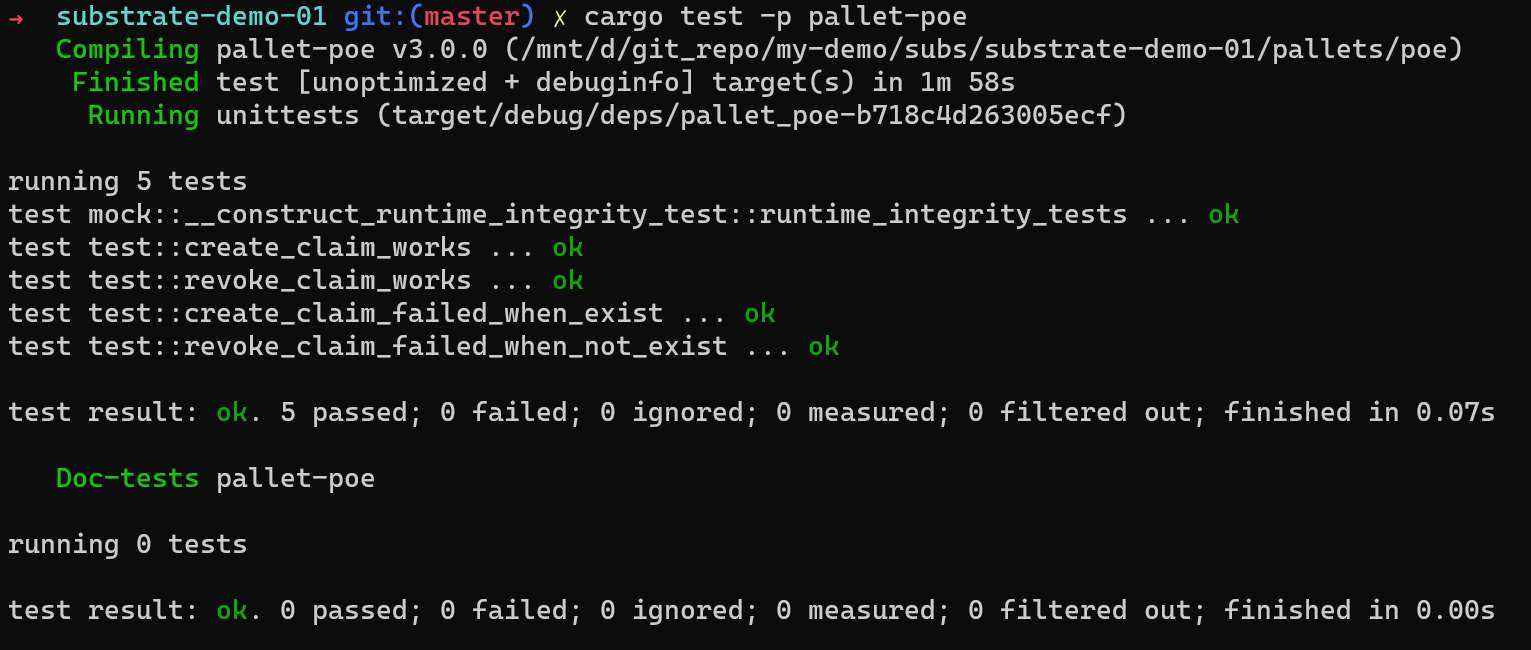
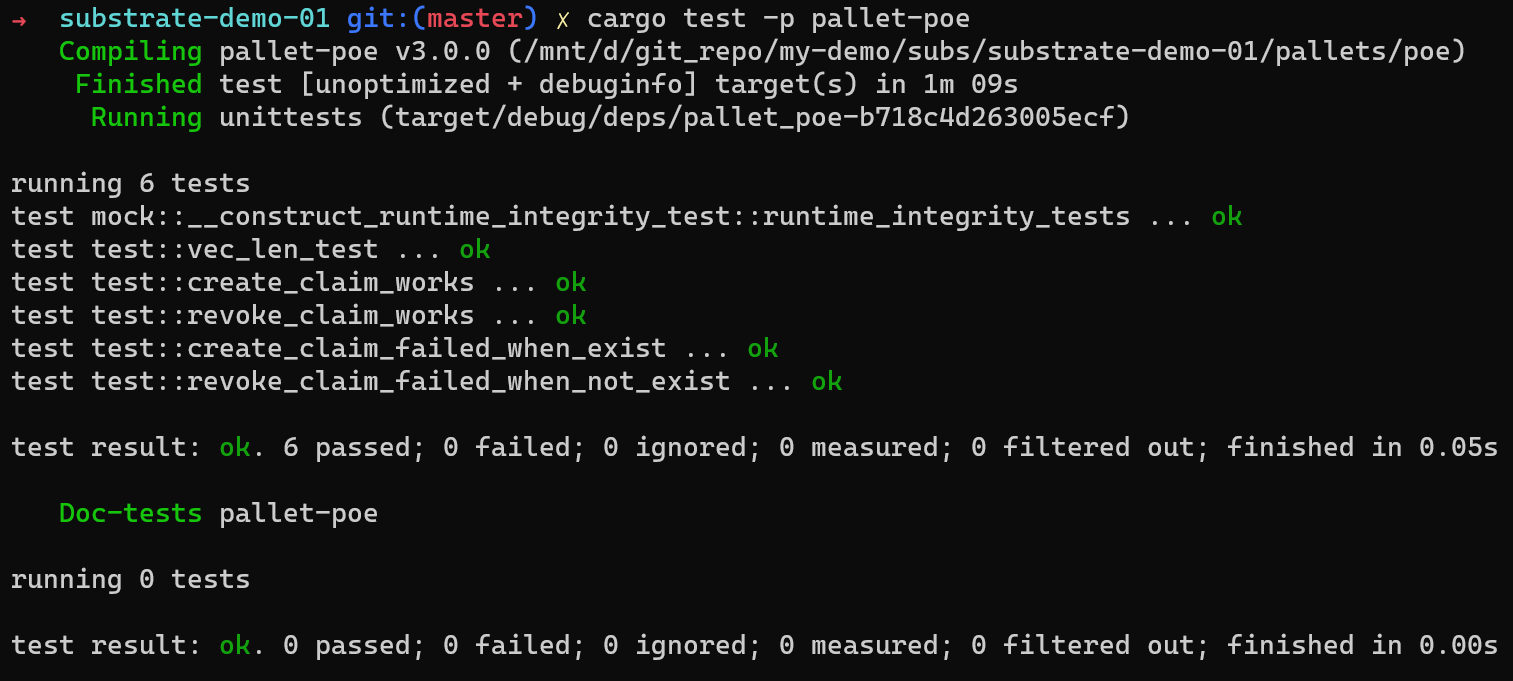
1.lesson-01.done

diff --git a/pallets/poe/src/lib.rs b/pallets/poe/src/lib.rs
@@ -41,6 +41,7 @@ pub mod pallet {
         ProofAlreadyExist,
         ClaimNotExist,
         NotClaimOwner,
+        ClaimTooLong,
     }
 
     #[pallet::hooks]
@@ -55,6 +56,11 @@ pub mod pallet {
             ensure!(
                 !Proofs::<T>::contains_key(&claim),
                 Error::<T>::ProofAlreadyExist
+            );
+
+            ensure!(
+                claim.len() <= 10,
+                Error::<T>::ClaimTooLong
             );
 
             Proofs::<T>::insert(

diff --git a/pallets/poe/src/test.rs b/pallets/poe/src/test.rs
@@ -49,3 +49,14 @@ fn revoke_claim_failed_when_not_exist(){
         );
     });
 }
+
+#[test]
+fn vec_len_test(){
+    new_test_ext().execute_with(||{
+        let claim = vec![0,1,2,3,4,5,6,7,8,9,10,11,12];
+        assert_noop!(
+            PoeModule::create_claim(Origin::signed(1), claim.clone()),
+            Error::<Test>::ClaimTooLong
+        );
+    });
+}
